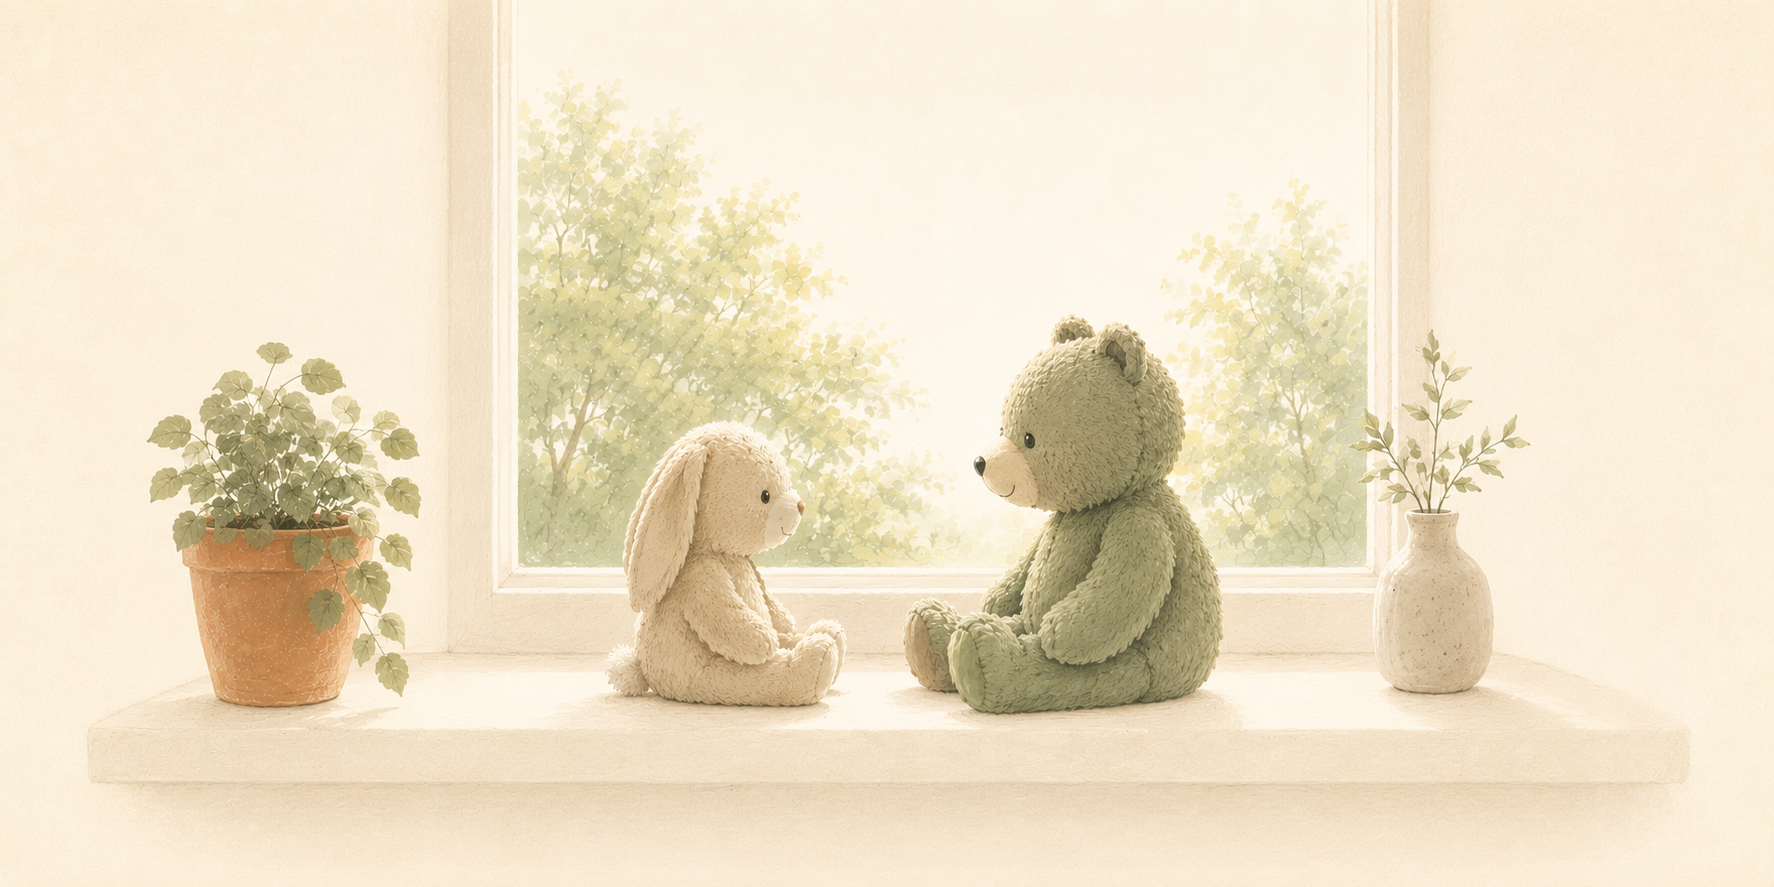
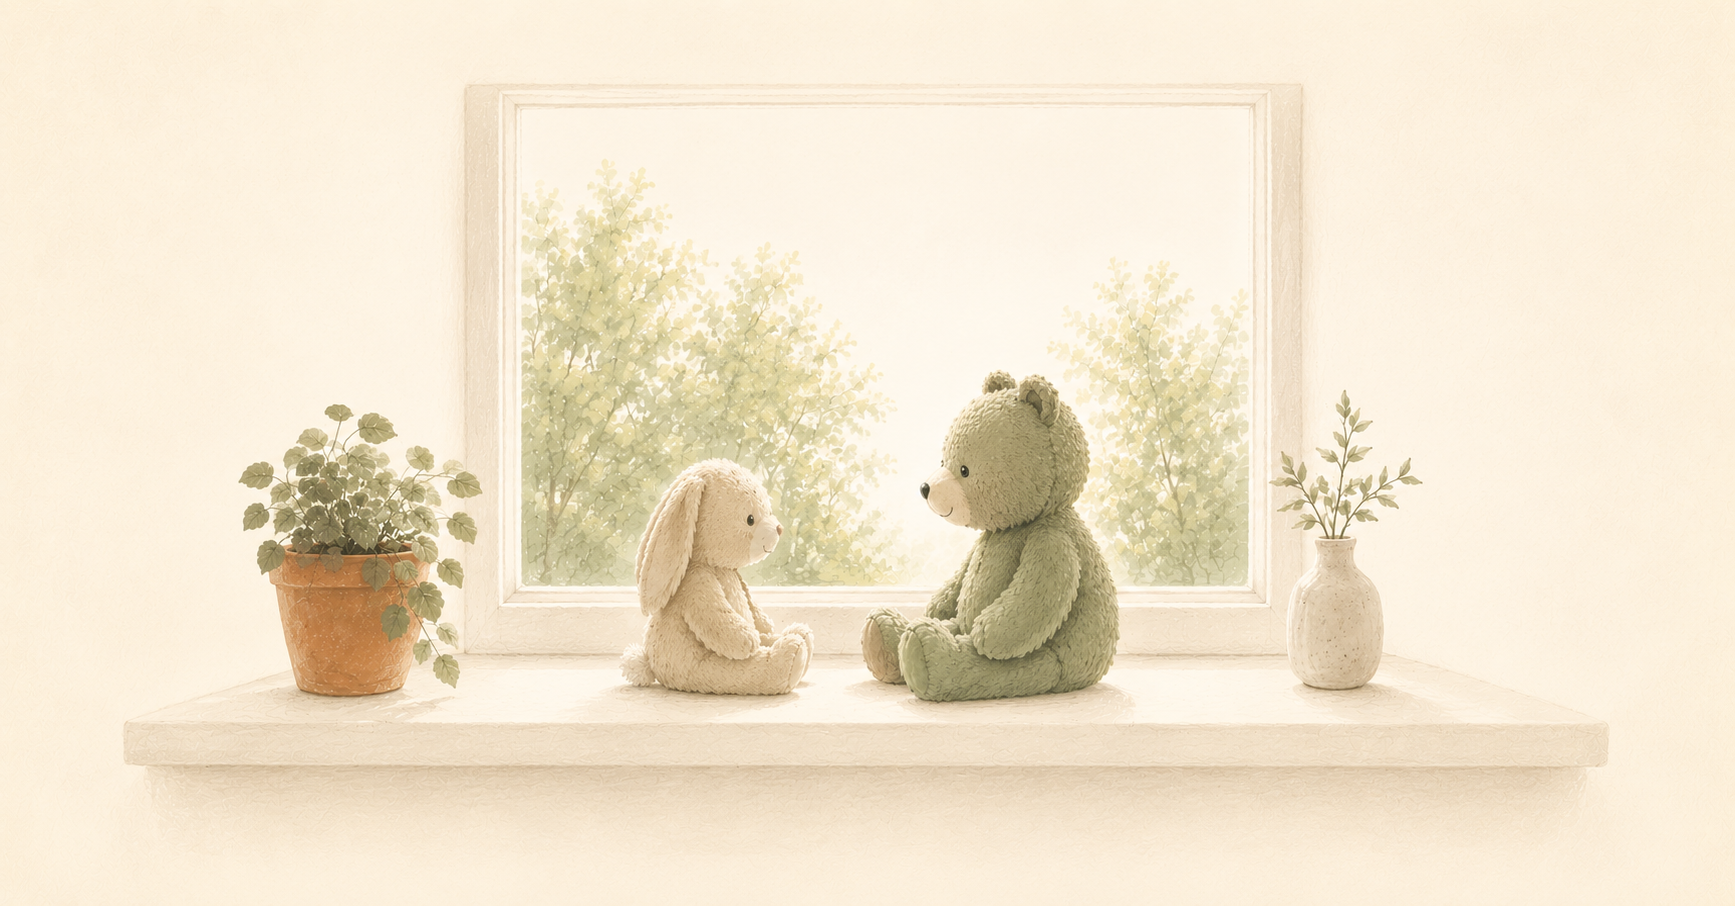
Use refined windowsill image with more breathing room on page 7

Changed region(s): [[0.0311, 0.0, 0.9026, 0.9132], [0.9026, 0.8828, 0.9337, 0.9132]]

diff --git a/index.html b/index.html
@@ -479,7 +479,7 @@
       <p class="page-sub">You don't need the perfect words.</p>
 
       <div class="figband" style="margin-top:14px;margin-bottom:16px;height:1.4in;">
-        <img src="uploads/say-windowsill.png" alt="A toy bunny and bear sitting together on a windowsill" style="width:100%;height:100%;object-fit:cover;object-position:50% 64%;display:block;">
+        <img src="uploads/say-windowsill.png" alt="A toy bunny and bear sitting together on a windowsill" style="width:100%;height:100%;object-fit:cover;object-position:50% 50%;display:block;">
       </div>
 
       <p style="margin-bottom:14px;">When a child is upset, it's easy to worry about saying the wrong thing. Your tone matters more than the exact words you choose.</p>
